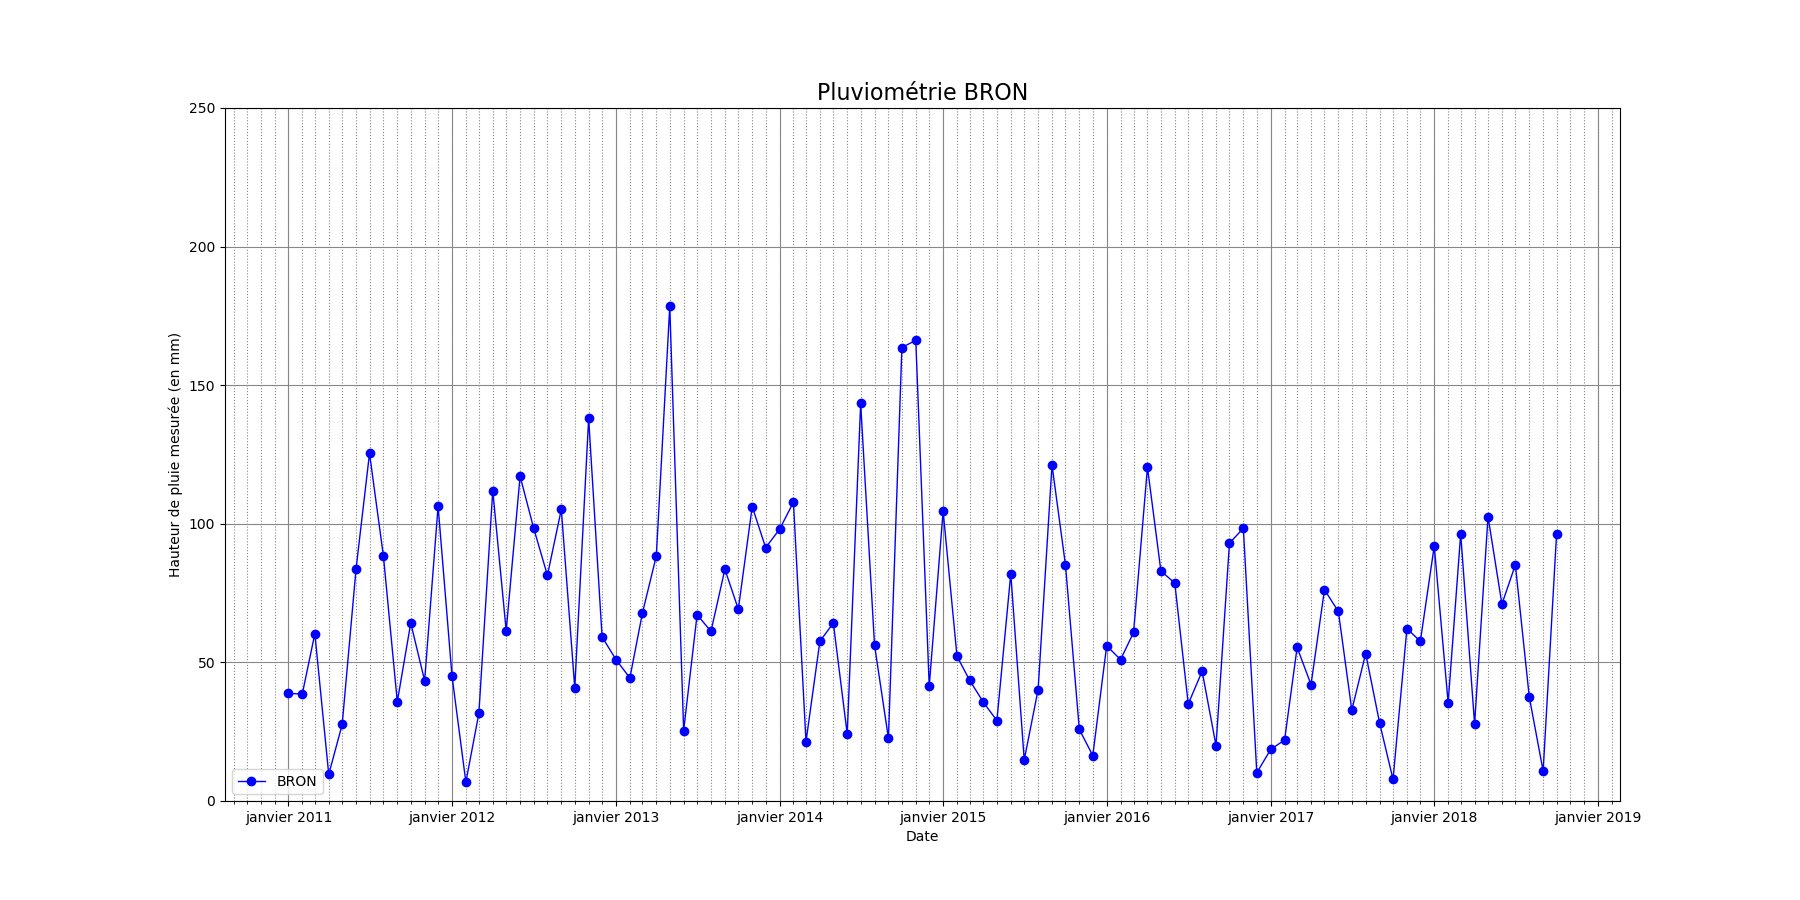
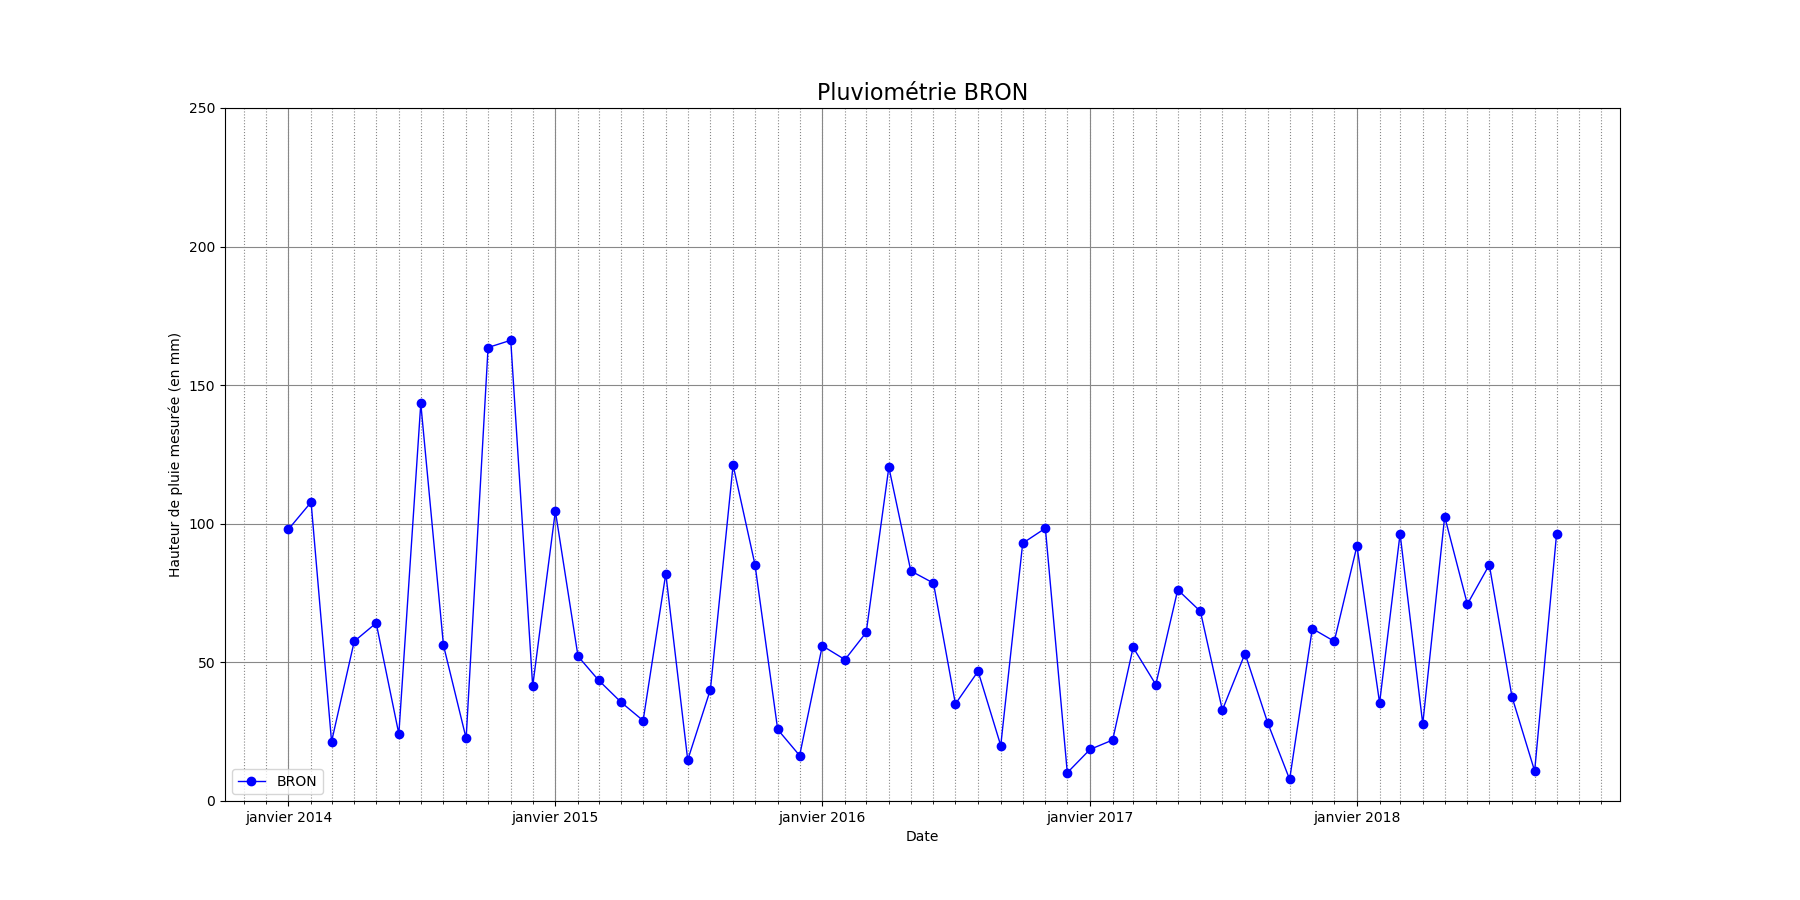
Gestion des dates de debut de fin

diff --git a/client/index.html b/client/index.html
@@ -22,9 +22,9 @@
 
 <div id="map"></div>  
 
-<FORM name=Dates methode="POST">
+<FORM name=Dates>
 Date de début : 
-<label>2011 : <input type="radio" name="Date_debut" value="2011"></label>
+<label>2011 : <input checked type="radio" name="Date_debut" value="2011"></label>
 <label>2012 : <input type="radio" name="Date_debut" value="2012"></label>
 <label>2013 : <input type="radio" name="Date_debut" value="2013"></label>
 <label>2014 : <input type="radio" name="Date_debut" value="2014"></label>
@@ -39,7 +39,7 @@ Date de fin :
 <label>2015 : <input type="radio" name="Date_fin" value="2015"></label>
 <label>2016 : <input type="radio" name="Date_fin" value="2016"></label>
 <label>2017 : <input type="radio" name="Date_fin" value="2017"></label>
-<label>2018 : <input type="radio" name="Date_fin" value="2018"></label>
+<label>2018 : <input checked type="radio" name="Date_fin" value="2018"></label>
 
 <input type="submit" value ="Ok">
 
@@ -82,13 +82,25 @@ function OnMarkerClick (e) {
     var xhr = new XMLHttpRequest();
     var image =  document.querySelector('#reponse img'),
 	legende = document.querySelector('#reponse p');
+    var debut = '';
+    for (i=0; i<document.Dates.Date_debut.length; i++) {
+	    if (document.Dates.Date_debut[i].checked) {
+		    debut = document.Dates.Date_debut[i].value;
+	    }
+    }
+    var fin = '';
+    for (i=0; i<document.Dates.Date_fin.length; i++) {
+	    if (document.Dates.Date_fin[i].checked) {
+		    fin = document.Dates.Date_fin[i].value;
+	    }
+    }
     xhr.onload = function() {   // fonction callback
 	var data = JSON.parse(this.responseText)
 	image.src = data.img;
 	image.alt = data.title;
 	legende.innerHTML = data.title;
     };
-    xhr.open('GET','/pluies/'+e.target.nom,true);  // on récupère la courbe par un appel au serveur
+    xhr.open('GET','/pluies/'+e.target.nom+'/'+debut+'/'+fin,true);  // on récupère la courbe par un appel au serveur
     xhr.send();
 }
 </script>

diff --git a/Pluviometrie.py b/Pluviometrie.py
@@ -103,6 +103,12 @@ class RequestHandler(http.server.SimpleHTTPRequestHandler):
   # On génère et on renvoie un graphique de l'historique des pluies (cf. TD1)
   #
   def send_pluies(self):
+    if len(self.path_info)>3:
+        debut = int(self.path_info[2])
+        fin = int(self.path_info[3])
+    else:
+        debut = 2011
+        fin = 2018
 
     conn = sqlite3.connect('pluvio.sqlite')
     c = conn.cursor()
@@ -136,9 +142,9 @@ class RequestHandler(http.server.SimpleHTTPRequestHandler):
     c.execute("SELECT SUBSTR(date,4,7) AS mois,SUM(`"+sta+"`) FROM 'pluvio-histo-2018' WHERE `"+sta+"_e`!='*' GROUP BY mois")
     r = c.fetchall()
     # recupération de la date (colonne 1) et transformation dans le format de pyplot
-    x = [pltd.date2num(dt.date(int(a[0][3:7]),int(a[0][:2]),1)) for a in r]
+    x = [pltd.date2num(dt.date(int(a[0][3:7]),int(a[0][:2]),1)) for a in r if int(a[0][3:7])>=debut and int(a[0][3:7])<=fin]
     # récupération de la hauteur (colonne 2)
-    y = [ ( 0.0 if a[1]=='' else float(a[1]) ) for a in r]
+    y = [ ( 0.0 if a[1]=='' else float(a[1]) ) for a in r if int(a[0][3:7])>=debut and int(a[0][3:7])<=fin]
     # trie selon date
     x,y = zip(*sorted(zip(x, y)))
     # tracé de la courbe
@@ -149,7 +155,7 @@ class RequestHandler(http.server.SimpleHTTPRequestHandler):
     plt.title('Pluviométrie '+self.path_info[1],fontsize=16)
 
     # génération des courbes dans un fichier PNG
-    fichier = 'courbes/pluies_'+self.path_info[1] +'.png'
+    fichier = 'courbes/pluies_'+self.path_info[1]+'_'+str(debut)+'_'+str(fin)+'.png'
     plt.savefig('client/{}'.format(fichier))
     plt.close()
     
